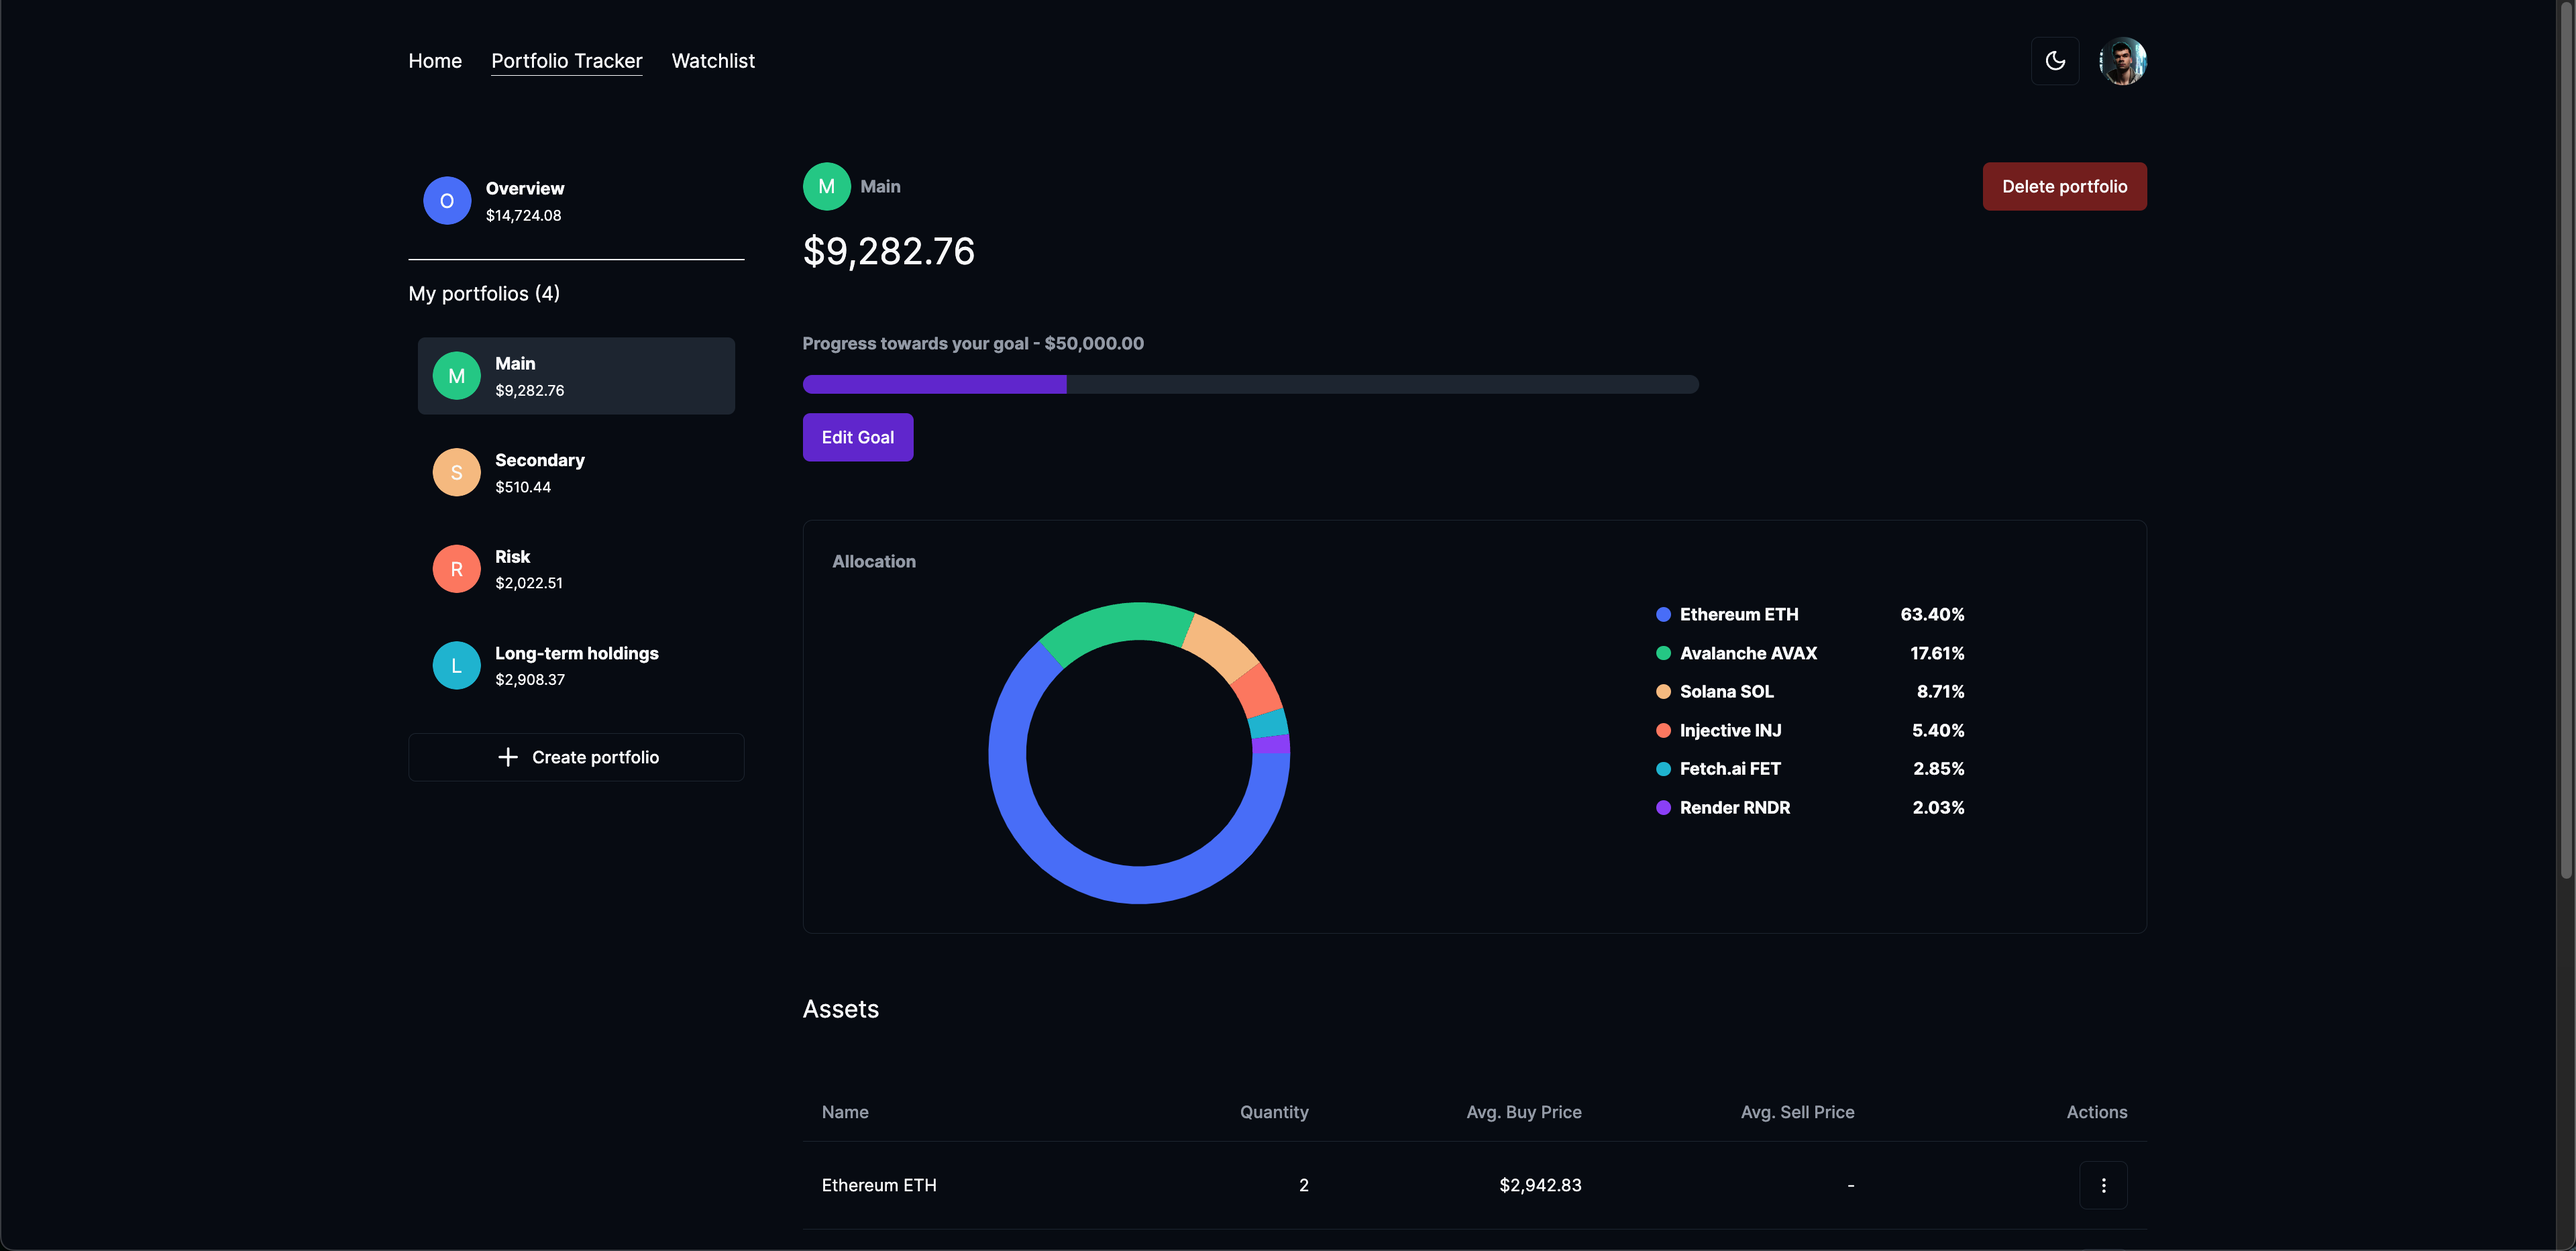
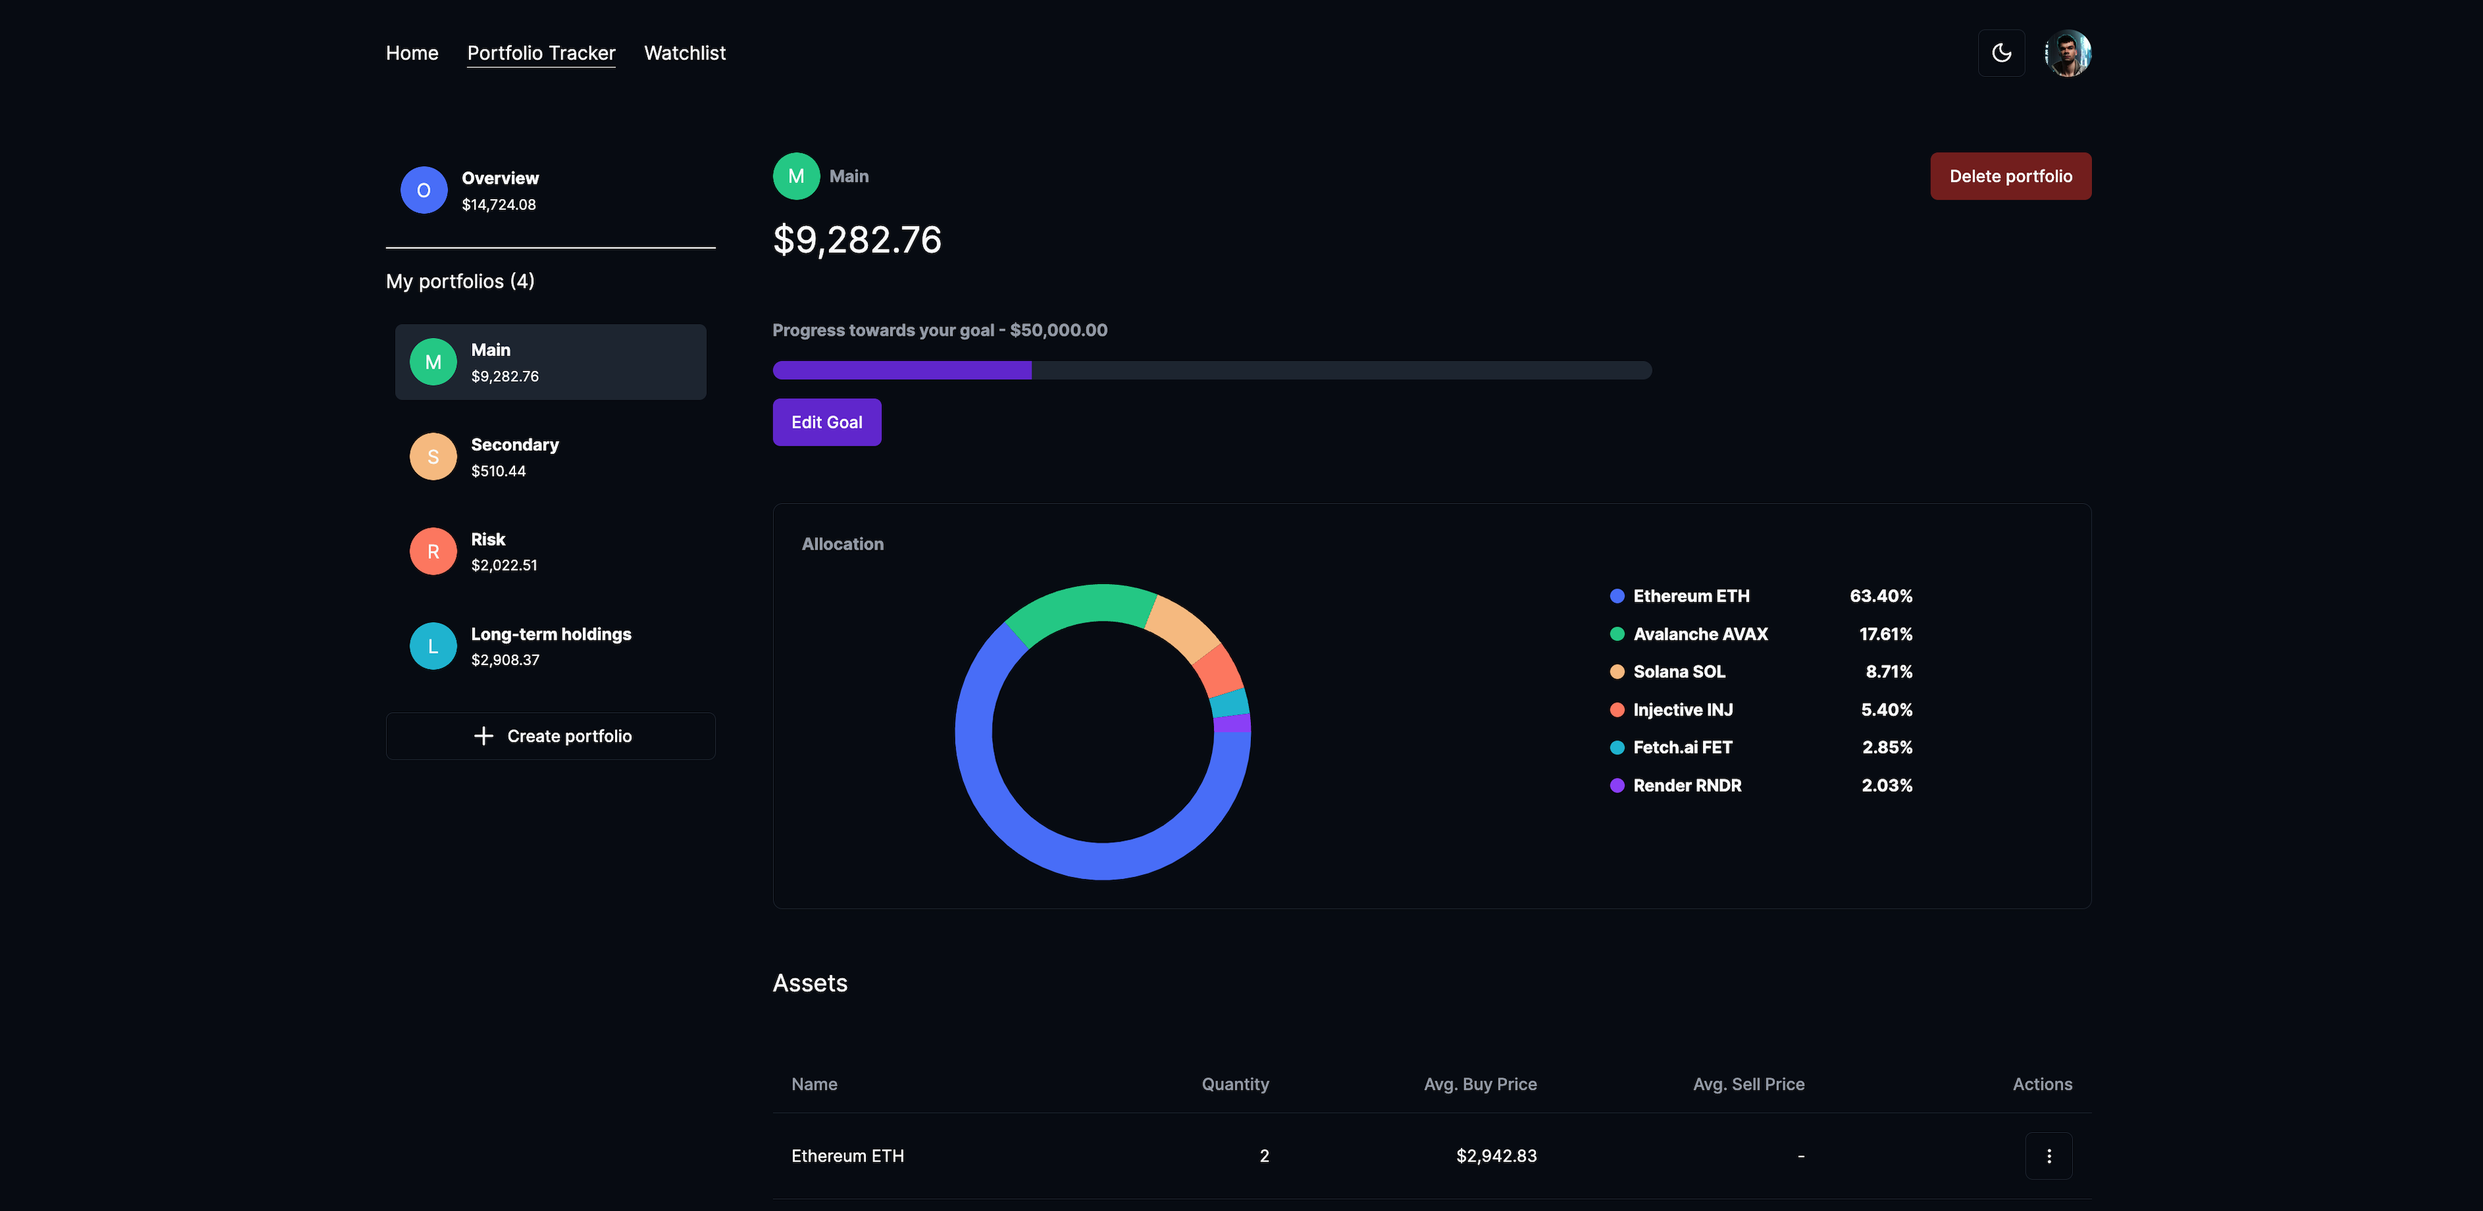
fix function

diff --git a/src/app/(private)/portfolio-tracker/page.tsx b/src/app/(private)/portfolio-tracker/page.tsx
@@ -30,7 +30,8 @@ import {
   aggregateCoins,
   calculateAvgPrices,
   calculateCoinValue,
-  formatPrice,
+  formatAsCurrency,
+  formatNumber,
   getColorByIndex,
 } from "@/utils/functions";
 import { useToast } from "@/components/ui/use-toast";
@@ -184,7 +185,7 @@ const page = () => {
         <Wallet
           walletName="Overview"
           selected={!selectedWallet}
-          totalValue={formatPrice(totalWalletsValue)}
+          totalValue={formatNumber(totalWalletsValue)}
           onClick={() => handleChangeWallet(null)}
           color="#5178ff"
         />
@@ -196,7 +197,7 @@ const page = () => {
               <Wallet
                 key={wallet._id}
                 walletName={wallet.name}
-                totalValue={formatPrice(wallet.totalValue)}
+                totalValue={formatNumber(wallet.totalValue)}
                 onClick={() => handleChangeWallet(wallet)}
                 selected={wallet._id === selectedWallet?._id}
                 color={getColorByIndex(i + 1)}
@@ -233,8 +234,8 @@ const page = () => {
                 </div>
                 <h3 className="mt-4">
                   {selectedWallet
-                    ? formatPrice(selectedWallet.totalValue)
-                    : formatPrice(totalWalletsValue)}
+                    ? formatNumber(selectedWallet.totalValue)
+                    : formatNumber(totalWalletsValue)}
                 </h3>
               </div>
 
@@ -247,7 +248,7 @@ const page = () => {
             <div className="w-full md:w-2/3 flex flex-col gap-4">
               <p className="text-sm text-muted-foreground font-bold">
                 {walletsValueGoal
-                  ? `Progress towards your goal - ${formatPrice(
+                  ? `Progress towards your goal - ${formatAsCurrency(
                       walletsValueGoal
                     )}`
                   : "You haven't set a goal yet"}
@@ -344,7 +345,7 @@ const page = () => {
                                 {coin.totalQuantity}
                               </TableCell>
                               <TableCell className="text-right">
-                                {formatPrice(
+                                {formatNumber(
                                   calculateAvgPrices(coin.transactions)
                                     .avgBuyPrice
                                 )}
@@ -352,7 +353,7 @@ const page = () => {
                               <TableCell className="text-right">
                                 {calculateAvgPrices(coin.transactions)
                                   .avgSellPrice
-                                  ? formatPrice(
+                                  ? formatNumber(
                                       calculateAvgPrices(coin.transactions)
                                         .avgSellPrice
                                     )

diff --git a/src/app/(private)/watchlist/page.tsx b/src/app/(private)/watchlist/page.tsx
@@ -38,7 +38,7 @@ import Loader from "@/components/Loader";
 import DeleteWatchlistDialog from "@/components/DeleteWatchlistDialog";
 import { Skeleton } from "@/components/ui/skeleton";
 import Image from "next/image";
-import { formatAsCurrency, formatPrice } from "@/utils/functions";
+import { formatAsCurrency, formatNumber } from "@/utils/functions";
 
 const page = () => {
   const [isModalOpen, setIsModalOpen] = useState(false);
@@ -225,7 +225,7 @@ const page = () => {
                         <TableCell>{coin.cmcRank}</TableCell>
                         <TableCell>{coin.name}</TableCell>
                         <TableCell align="right">
-                          {formatPrice(coin.price)}
+                          {formatNumber(coin.price)}
                         </TableCell>
                         <TableCell
                           align="right"
@@ -235,7 +235,7 @@ const page = () => {
                               : "text-red-500"
                           }
                         >
-                          {formatPrice(coin.oneHourChange, false)}%
+                          {formatNumber(coin.oneHourChange, false)}%
                         </TableCell>
                         <TableCell
                           align="right"
@@ -245,7 +245,7 @@ const page = () => {
                               : "text-red-500"
                           }
                         >
-                          {formatPrice(coin.oneDayChange, false)}%
+                          {formatNumber(coin.oneDayChange, false)}%
                         </TableCell>
                         <TableCell
                           align="right"
@@ -255,7 +255,7 @@ const page = () => {
                               : "text-red-500"
                           }
                         >
-                          {formatPrice(coin.sevenDaysChange, false)}%
+                          {formatNumber(coin.sevenDaysChange, false)}%
                         </TableCell>
                         <TableCell align="right">
                           {formatAsCurrency(+coin.marketCap.toFixed(2))}

diff --git a/src/app/(private)/page.tsx b/src/app/(private)/page.tsx
@@ -10,7 +10,7 @@ import {
   TableHeader,
   TableRow,
 } from "@/components/ui/table";
-import { formatAsCurrency, formatPrice } from "@/utils/functions";
+import { formatAsCurrency, formatNumber } from "@/utils/functions";
 import { CoinData } from "@/utils/interfaces";
 import { useQuery } from "@tanstack/react-query";
 import axios from "axios";
@@ -66,7 +66,7 @@ export default function Home() {
               <TableRow key={coin.id}>
                 <TableCell className="font-medium">{coin.cmc_rank}</TableCell>
                 <TableCell>{`${coin.name} ${coin.symbol}`}</TableCell>
-                <TableCell>{formatPrice(coin.quote.USD.price ?? 0)}</TableCell>
+                <TableCell>{formatNumber(coin.quote.USD.price ?? 0)}</TableCell>
                 <TableCell
                   className={
                     (coin.quote.USD.percent_change_1h ?? 0) >= 0
@@ -74,7 +74,7 @@ export default function Home() {
                       : "text-red-500"
                   }
                 >
-                  {formatPrice(coin.quote.USD.percent_change_1h ?? 0, false)}%
+                  {formatNumber(coin.quote.USD.percent_change_1h ?? 0, false)}%
                 </TableCell>
                 <TableCell
                   className={
@@ -83,7 +83,7 @@ export default function Home() {
                       : "text-red-500"
                   }
                 >
-                  {formatPrice(coin.quote.USD.percent_change_24h ?? 0, false)}%
+                  {formatNumber(coin.quote.USD.percent_change_24h ?? 0, false)}%
                 </TableCell>
                 <TableCell
                   className={
@@ -92,7 +92,7 @@ export default function Home() {
                       : "text-red-500"
                   }
                 >
-                  {formatPrice(coin.quote.USD.percent_change_7d ?? 0, false)}%
+                  {formatNumber(coin.quote.USD.percent_change_7d ?? 0, false)}%
                 </TableCell>
                 <TableHead>
                   {formatAsCurrency(

diff --git a/src/utils/functions.ts b/src/utils/functions.ts
@@ -1,39 +1,38 @@
 import { Coin, Transaction, UserWallet } from "./interfaces";
 
-export const formatAsCurrency = (price: number) => {
+export const formatAsCurrency = (price: number, decimalPlaces = 2) => {
   return new Intl.NumberFormat("en-US", {
     style: "currency",
     currency: "USD",
+    maximumFractionDigits: decimalPlaces,
   }).format(price);
 };
 
-export const formatPrice = (price: number, asCurrency: boolean = true) => {
-  const priceInCents = Math.round(price * 100);
+export const formatNumber = (number: number, asCurrency = true): string => {
+  if (number === 0) {
+    return asCurrency ? formatAsCurrency(0) : "0";
+  }
 
-  if (priceInCents === 0) return asCurrency ? formatAsCurrency(0) : 0;
+  const isNegative = number < 0;
+  const absNumber = Math.abs(number);
 
-  if (priceInCents >= 1) {
-    return asCurrency
-      ? formatAsCurrency(priceInCents / 100)
-      : priceInCents / 100;
+  const numToReturn = isNegative ? -absNumber : +absNumber;
+
+  if (absNumber >= 0.01) {
+    return asCurrency ? formatAsCurrency(numToReturn) : numToReturn.toFixed(2);
   } else {
-    const priceAsString = priceInCents.toString();
-    const decimals = priceAsString.split(".")[1];
-    let initialIndex = 0;
-
-    for (let i = 0; i <= decimals?.length - 1; i++) {
-      if (decimals[i] === "0") {
-        initialIndex += 1;
-      } else {
-        break;
-      }
+    const decimalString = absNumber.toString().split(".")[1];
+    if (!decimalString) {
+      return asCurrency ? formatAsCurrency(0) : "0";
     }
 
-    const toFixed = initialIndex + 2;
+    const firstNonZeroIndex = decimalString
+      .split("")
+      .findIndex((digit) => digit !== "0");
 
     return asCurrency
-      ? formatAsCurrency(priceInCents / 100).replace(/\..*/, "")
-      : priceInCents / 100;
+      ? formatAsCurrency(numToReturn, firstNonZeroIndex + 4)
+      : numToReturn.toFixed(firstNonZeroIndex + 4);
   }
 };
 

diff --git a/src/components/AddEditGoalDialog.tsx b/src/components/AddEditGoalDialog.tsx
@@ -17,6 +17,7 @@ import { Session } from "@/utils/interfaces";
 import axios from "axios";
 import { useToast } from "./ui/use-toast";
 import { Label } from "./ui/label";
+import { isValidInput } from "@/utils/functions";
 
 const AddEditGoalDialog = ({
   setWalletsValueGoal,
@@ -30,7 +31,7 @@ const AddEditGoalDialog = ({
 
   const session = data as Session | null;
 
-  const [goal, setGoal] = useState<number>(0);
+  const [goal, setGoal] = useState<string>("");
   const [isModalOpen, setIsModalOpen] = useState(false);
 
   const { mutateAsync, isPending } = useMutation({
@@ -61,7 +62,7 @@ const AddEditGoalDialog = ({
       if (session?.user?.id) {
         const accountInfo = {
           userId: session.user.id,
-          newGoal: goal,
+          newGoal: +goal.replace(",", "."),
         };
 
         await mutateAsync(accountInfo);
@@ -74,7 +75,7 @@ const AddEditGoalDialog = ({
   };
 
   useEffect(() => {
-    setGoal(walletsValueGoal);
+    setGoal(walletsValueGoal.toFixed(2));
   }, [walletsValueGoal, isModalOpen]);
 
   return (
@@ -95,17 +96,22 @@ const AddEditGoalDialog = ({
             <Label htmlFor="goal">Goal</Label>
             <Input
               id="goal"
-              placeholder="$100,000"
+              placeholder="100,000"
               value={goal}
-              onChange={(e) => setGoal(+e.target.value)}
-              type="number"
+              onChange={(e) => {
+                const inputValue = e.target.value;
+
+                if (isValidInput(inputValue)) {
+                  setGoal(inputValue);
+                }
+              }}
             />
           </div>
 
           <Button
             type="button"
             onClick={handleGoal}
-            disabled={isPending || walletsValueGoal === goal}
+            disabled={isPending || walletsValueGoal === +goal}
           >
             {walletsValueGoal === 0 ? "Set" : "Edit"}
           </Button>

diff --git a/src/components/Transactions.tsx b/src/components/Transactions.tsx
@@ -18,7 +18,7 @@ import {
   calculateTotalSold,
   extractLastWord,
   formatDate,
-  formatPrice,
+  formatNumber,
 } from "@/utils/functions";
 import { useQuery } from "@tanstack/react-query";
 import axios from "axios";
@@ -109,7 +109,7 @@ const Transactions = ({
             </CardDescription>
           </CardHeader>
           <CardContent className="text-2xl">
-            {formatPrice(avgBuyPrice)}
+            {formatNumber(avgBuyPrice)}
           </CardContent>
         </Card>
         <Card className="flex-1">
@@ -124,7 +124,7 @@ const Transactions = ({
             }`}
           >
             {isProfitable && "+"}
-            {formatPrice(+difference)}
+            {formatNumber(+difference)}
 
             <div className="mt-2 flex-container-center gap-[2px]">
               {isProfitable ? (
@@ -137,7 +137,7 @@ const Transactions = ({
                   isProfitable ? "text-green-500" : "text-red-500"
                 }`}
               >
-                {formatPrice(percentage, false)}%
+                {formatNumber(percentage, false)}%
               </p>
             </div>
           </CardContent>
@@ -179,7 +179,7 @@ const Transactions = ({
                   </div>
                 </TableCell>
                 <TableCell className="text-right">
-                  {formatPrice(transaction.pricePerCoin)}
+                  {formatNumber(transaction.pricePerCoin)}
                 </TableCell>
                 <TableCell className="text-right">
                   {transaction.quantity}

diff --git a/src/components/AddTransactionDialog.tsx b/src/components/AddTransactionDialog.tsx
@@ -22,7 +22,7 @@ import {
 import axios from "axios";
 import { useSession } from "next-auth/react";
 import { useToast } from "@/components/ui/use-toast";
-import { formatPrice, isValidInput } from "@/utils/functions";
+import { formatNumber, isValidInput } from "@/utils/functions";
 import Loader from "./Loader";
 
 const AddTransactionDialog = ({
@@ -177,7 +177,6 @@ const AddTransactionDialog = ({
                   <Label htmlFor="ppc">Price Per Coin</Label>
                   <Input
                     id="ppc"
-                    type="number"
                     placeholder="0.00"
                     value={selectedCoinInfo.pricePerCoin}
                     onChange={(e) => {
@@ -196,7 +195,7 @@ const AddTransactionDialog = ({
               <div className="bg-secondary p-3 rounded-md">
                 <h6 className="font-bold mb-1">Total Spent</h6>
                 <p>
-                  {formatPrice(
+                  {formatNumber(
                     +selectedCoinInfo.quantity.replace(",", ".") *
                       +selectedCoinInfo.pricePerCoin.replace(",", ".")
                   )}

diff --git a/src/components/AddCoinDialog.tsx b/src/components/AddCoinDialog.tsx
@@ -25,7 +25,7 @@ import { useWallet } from "@/providers/WalletProvider";
 import axios from "axios";
 import { useSession } from "next-auth/react";
 import { useToast } from "@/components/ui/use-toast";
-import { formatPrice, isValidInput } from "@/utils/functions";
+import { formatNumber, isValidInput } from "@/utils/functions";
 import Loader from "./Loader";
 
 const AddCoinDialog = ({
@@ -270,7 +270,7 @@ const AddCoinDialog = ({
               <div className="bg-secondary p-3 rounded-md">
                 <h6 className="font-bold mb-1">Total Spent</h6>
                 <p>
-                  {formatPrice(
+                  {formatNumber(
                     +selectedCoinInfo.quantity.replace(",", ".") *
                       +selectedCoinInfo.pricePerCoin.replace(",", ".")
                   )}
